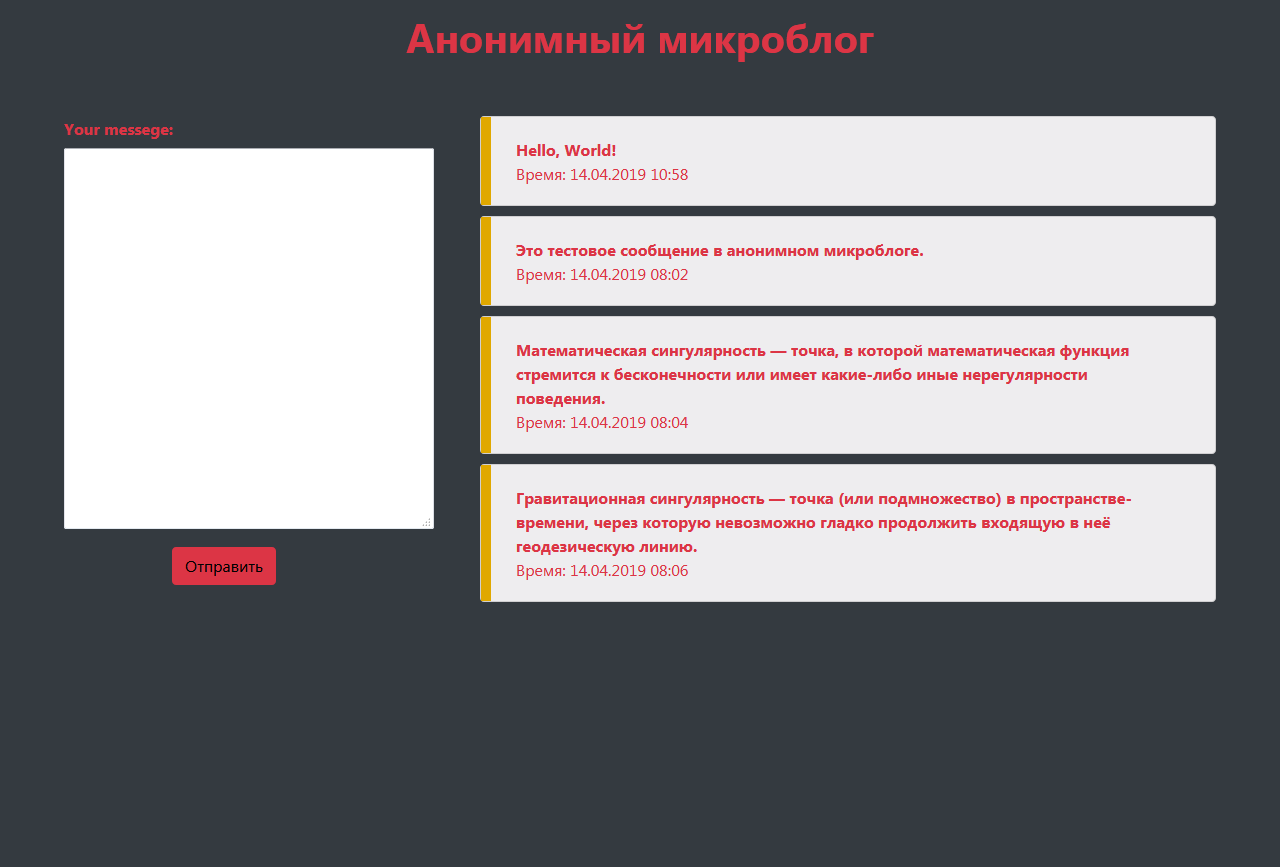
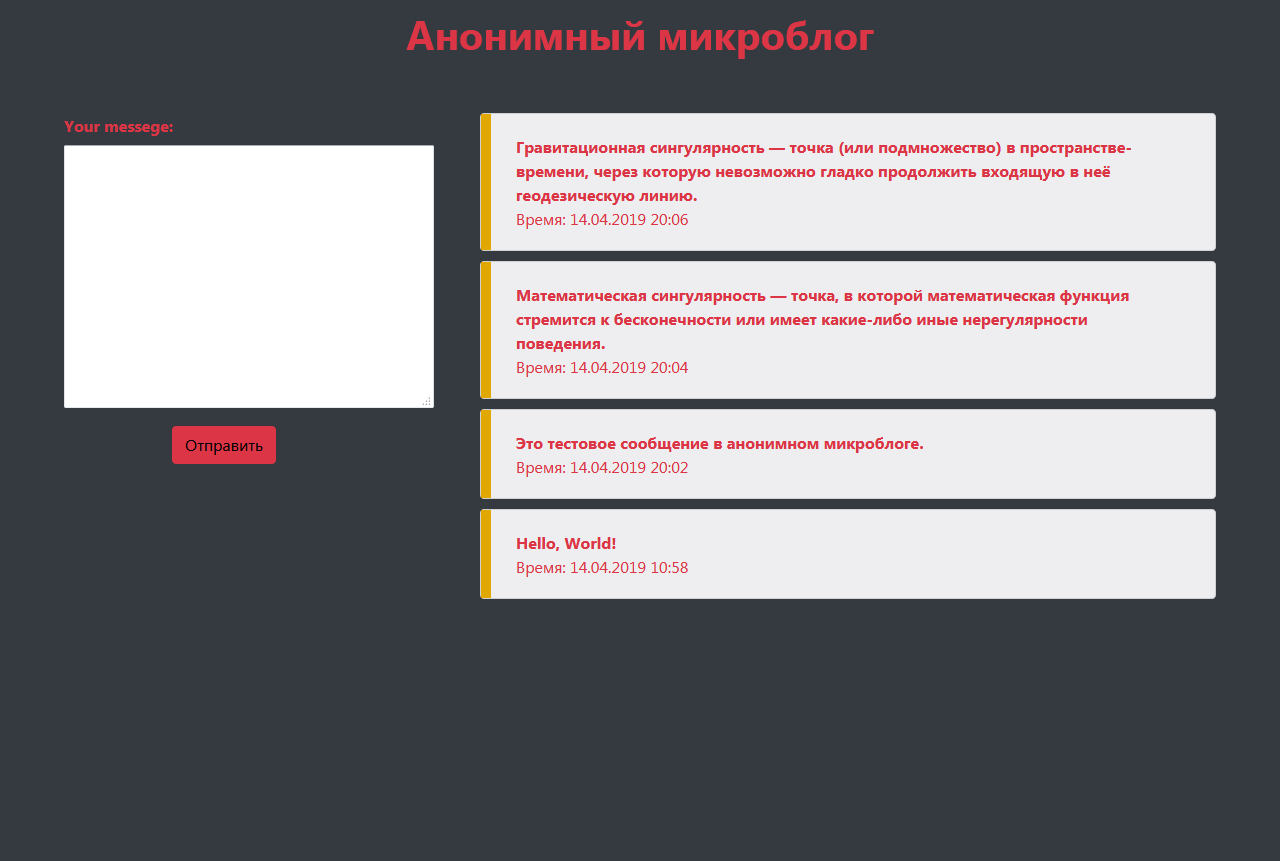
~

diff --git a/Blog/templates/index.html b/Blog/templates/index.html
@@ -53,7 +53,7 @@ var elems = [].filter.call( document.getElementsByTagName("label"), function( in
 
 Array.from(document.getElementsByClassName("time")).forEach(
     function(element, index, array) {
-      element.innerHTML  = moment(element.innerHTML, 'MMMM DD, YYYY, hh:mm').format('DD.MM.YYYY hh:mm');
+      element.innerHTML  = moment(element.innerHTML, 'MMMM DD, YYYY, HH:mm A').format('DD.MM.YYYY HH:mm');
     }
 );
 })();

diff --git a/Blog/KernelBlog/views.py b/Blog/KernelBlog/views.py
@@ -20,7 +20,7 @@ def index(request):
     else:
         form = forms.FormBlog()
 
-    return render(request, "index.html", {'blogtitle' : 'Aнонимный микроблог', 'data': data, 'form': form})
+    return render(request, "index.html", {'blogtitle' : 'Aнонимный микроблог', 'data': data[::-1], 'form': form})
 
 
 
